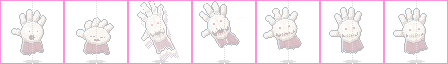
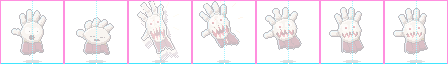
art: puppet scream mouth (half-face, red inner mouth, big teeth) + scuttling finger-leg chase; old float chase kept as puppet_chase_float

diff --git a/docs/DESIGN.md b/docs/DESIGN.md
@@ -29,8 +29,9 @@ Style: Dead Cells / fancy modern SNES — full-color creepy, flashlight as brigh
 | boy_climb_stairs | art/characters/boy_climb_stairs.png | 64² | 8f @10fps loop, pivot [32, 60]: stairs up-right, pivot y=60 |
 | boy_hurt | art/characters/boy_hurt.png | 64² | 3f @12fps, pivot [32, 63]: hit flash + knock-back |
 | puppet_calm | art/characters/puppet_calm.png | 64² | 6f @8fps loop, pivot [32, 63]: calm float, finger lag, blink |
-| puppet_startle | art/characters/puppet_startle.png | 64² | 7f @14fps, pivot [32, 63]: hero startle: anticipation, flash+smear impact, jaw splits, teeth, red glint; hold frame 6 |
-| puppet_chase | art/characters/puppet_chase.png | 64² | 8f @14fps loop, pivot [32, 63]: enraged snap loop, claws, red rim |
+| puppet_startle | art/characters/puppet_startle.png | 64² | 7f @14fps, pivot [32, 63]: hero startle: anticipation, flash+smear impact, scream mouth ~½ face height with red inner mouth + big teeth readable at 1×, red glint; hold frame 6 |
+| puppet_chase | art/characters/puppet_chase.png | 64² | 8f @14fps loop, pivot [32, 63]: enraged **scuttle** — fingers walk like legs on the floor (alternating pairs, feet on y≈62), forward lean + body bob on contacts 0/4, scream mouth snaps on 4 |
+| puppet_chase_float | art/characters/puppet_chase_float.png | 64² | 8f @14fps loop, pivot [32, 63]: previous floating snap loop, kept for the stage 4–5 float tier |
 | vase_idle | art/props/vase_idle.png | 32² | still, pivot [16, 31]: standing |
 | vase_thrown | art/props/vase_thrown.png | 32² | 4f @16fps loop, pivot [16, 16]: spin, centre pivot |
 | vase_shatter_enemy | art/props/vase_shatter_enemy.png | 32² | 6f @14fps, pivot [16, 31]: breaks on enemy |
@@ -48,7 +49,7 @@ Style: Dead Cells / fancy modern SNES — full-color creepy, flashlight as brigh
 | item_icon_lucky_coin | art/ui/icons/item_icon_lucky_coin.png | 32² | still, pivot [16, 16]: more gold |
 
 ## How to replace an animation
-Animated slots (`boy_idle`, `boy_run`, `boy_jump`, `boy_pickup`, `boy_carry`, `boy_throw`, `boy_climb_stairs`, `boy_hurt`, `puppet_calm`, `puppet_startle`, `puppet_chase`, `vase_*`) are **one horizontal PNG strip** per slot: frames left→right, no padding, transparent background. Frame data lives only in `assets/ASSETS_MANIFEST.toml` (`frame_size`, `frames`, `fps`, `loop`, `pivot`, plus `hand_points` for `boy_pickup`/`boy_carry`/`boy_throw`: one `[x, y]` per frame, frame-local pixels, where held/thrown objects attach).
+Animated slots (`boy_idle`, `boy_run`, `boy_jump`, `boy_pickup`, `boy_carry`, `boy_throw`, `boy_climb_stairs`, `boy_hurt`, `puppet_calm`, `puppet_startle`, `puppet_chase`, `puppet_chase_float`, `vase_*`) are **one horizontal PNG strip** per slot: frames left→right, no padding, transparent background. Frame data lives only in `assets/ASSETS_MANIFEST.toml` (`frame_size`, `frames`, `fps`, `loop`, `pivot`, plus `hand_points` for `boy_pickup`/`boy_carry`/`boy_throw`: one `[x, y]` per frame, frame-local pixels, where held/thrown objects attach).
 1. Open `assets/replace_me/<slot>_template.png` in your editor (same pixel size as the strip) and draw on a new layer over it. Guides: magenta box = one frame; cyan row = feet line (pivot y); dotted cyan column + white dot = pivot (bottom-centre); orange/red cross = that frame's `hand_points` entry (pickup/carry/throw); green dots on `boy_climb_stairs` = stair slope. The faint figure underneath is the current AI frame.
 2. Keep the same frame size and frame count — or change `frames` (and `fps`/`loop` if needed) in the manifest to match what you drew. Keep feet on the feet line so the pivot still works. For slots with `hand_points`, keep exactly one point per frame: if the hand moves in your drawing, update that frame's `[x, y]`.
 3. Hide the template layer and export over the `path` listed in the manifest (no frame info in filenames).
